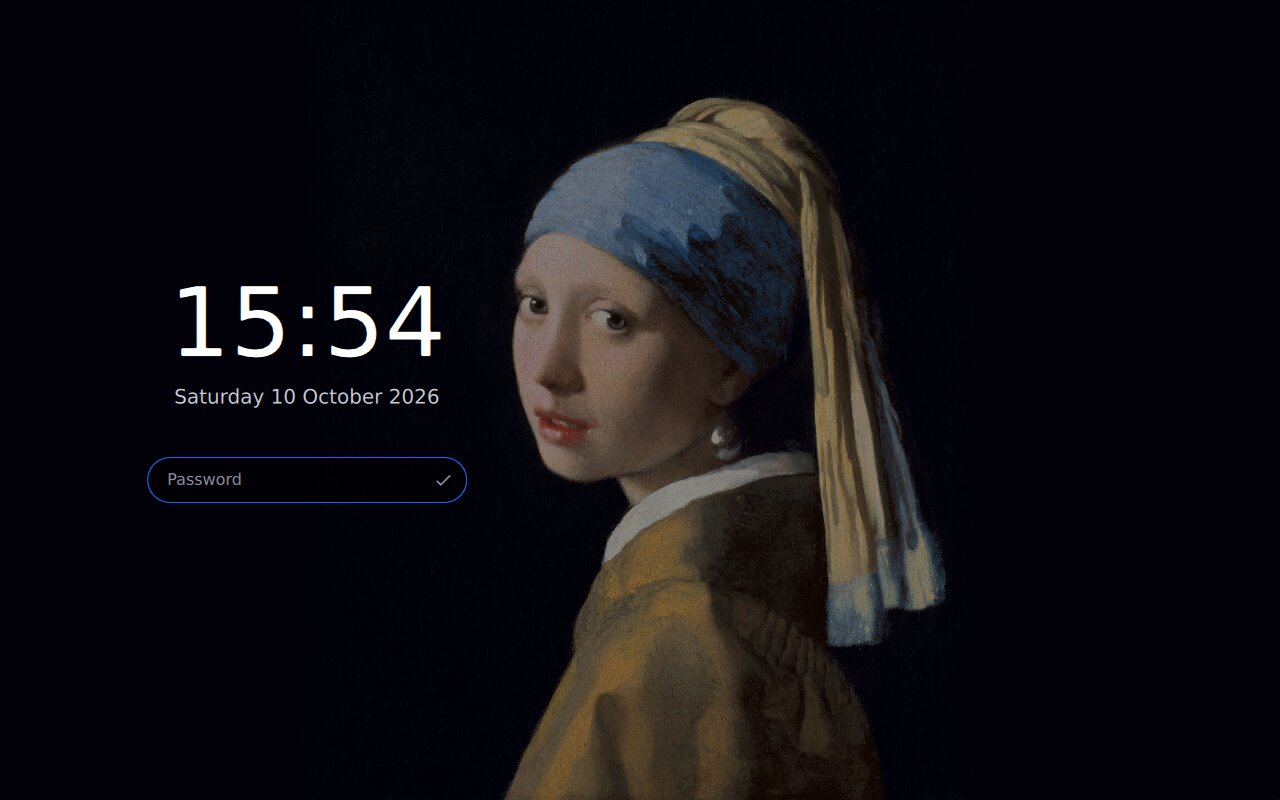
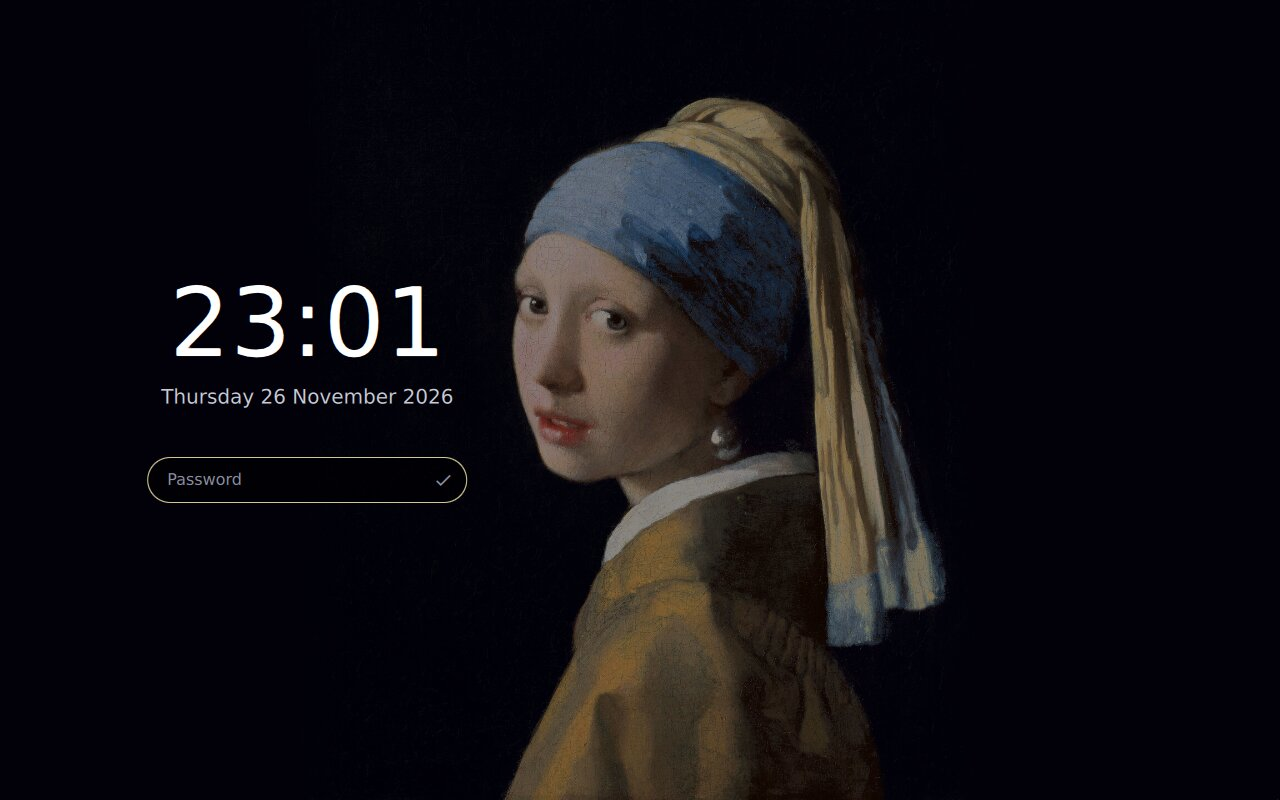
Bring the screenshot test and the README pictures up to date

diff --git a/docs/TODO-done.md b/docs/TODO-done.md
@@ -117,4 +117,12 @@ Done: the settings window has a **Bar items** section with a chip per item of th
       single device. The popup already showed each device's battery. Tested only as far as the shell
       loading without errors: the connected headphones report 20% through BlueZ, so the bar should read
       "20%" in red; the look was not checked, and no second device was tried.
+- [x] **Screenshot test brought up to date** (`tests/screenshots.nix`): the settings clicks follow the sidebar
+      layout (tabs at x 420, the window at x 342 to 938 and y 120 to 680), the night light and weather
+      steps use their own tabs instead of scrolling, and two pictures were added: the Bar category
+      (`22-settings-bar`) and the bar with a VPN (a WireGuard interface made as root in the VM) and keep
+      awake switched on (`23-vpn-keep-awake`). The theme loop includes the From wallpaper chip and ends by
+      putting the default theme back. `nix build .#screenshots -L` ran to the end in this checkout (about
+      four minutes, KVM available) and every check in it passed; the README pictures were taken from
+      that run and a new row shows the two new ones.
 

diff --git a/README.md b/README.md
@@ -126,6 +126,8 @@ page is the islands bar in its compact form.
 | ![The calendar popup](docs/screenshots/calendar.jpg) | ![The task manager popup](docs/screenshots/task-manager.jpg) |
 | **Wi-Fi** | **Settings** |
 | ![The Wi-Fi popup](docs/screenshots/network.jpg) | ![The settings window](docs/screenshots/settings.jpg) |
+| **Settings: the bar** | **VPN and keep awake** |
+| ![The bar category of the settings](docs/screenshots/settings-bar.jpg) | ![The bar with the VPN and keep awake items](docs/screenshots/vpn-keep-awake.jpg) |
 
 The lock screen and the login screen share one look:
 
@@ -133,7 +135,7 @@ The lock screen and the login screen share one look:
 |---|---|
 | ![The lock screen](docs/screenshots/lock.jpg) | ![The login screen](docs/screenshots/login.jpg) |
 
-Three of the nine themes (Gruvbox, Nord and the light Catppuccin Latte), picked in the settings window:
+Three of the ten themes (Gruvbox, Nord and the light Catppuccin Latte), picked in the settings window:
 
 | Gruvbox | Nord | Catppuccin Latte |
 |---|---|---|

diff --git a/docs/TODO.md b/docs/TODO.md
@@ -23,8 +23,9 @@ styles (`statusbar/styles/`, both the normal and the compact layout).
       `coretemp` (Intel) is found, and this machine has `k10temp`. Check that it shows on the real
       shell. If it does not, that is a bug to fix; if you meant the temperature in the bar next to
       the CPU percentage, or the GPU's, say so.
-- [ ] README: describe the new items, and a screenshot of each that the screenshot VM can show (it
-      has no sound, camera or keyboard layouts to switch, so some will not appear)
+- [ ] More README pictures for the newer items that the VM can show: the volume popup needs a sound
+      device (the VM has none), the Bluetooth battery needs a device, and the From wallpaper theme has
+      a theme chip picture but no picture of the bar in it.
 
 ## Not now
 
